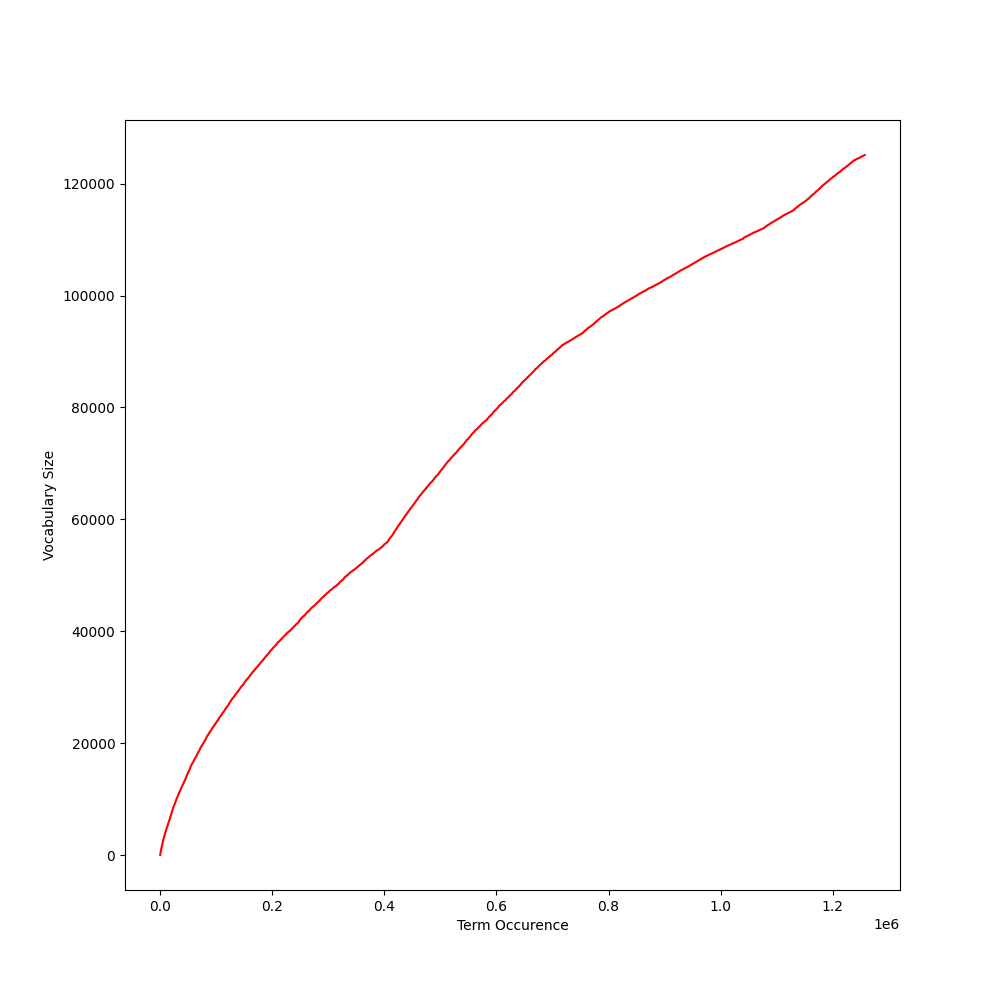
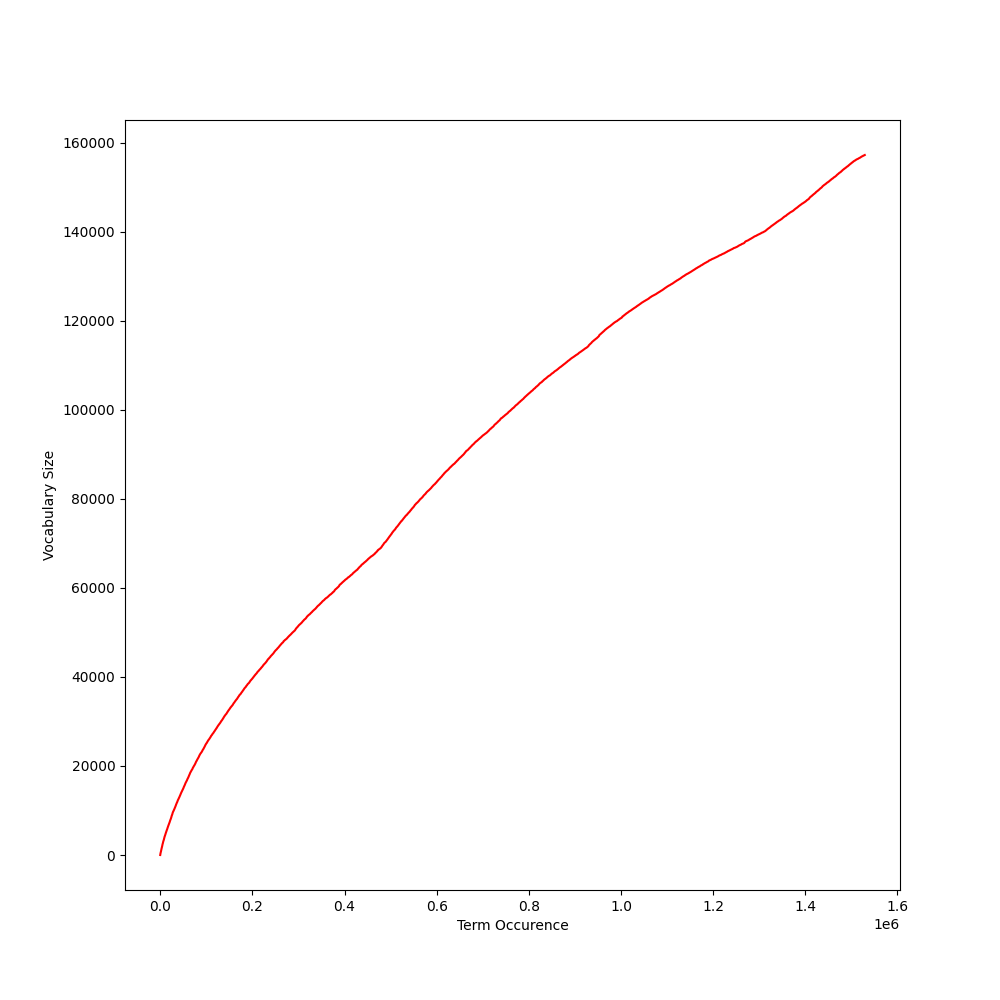
Faster Version for WC

diff --git a/project02.py b/project02.py
@@ -1,28 +1,34 @@
 import pickle
+import matplotlib.pyplot as plt
 import re
 
-import matplotlib.pyplot as plt
-from nltk import sent_tokenize, word_tokenize
-from nltk.util import ngrams, bigrams, everygrams
-from nltk.corpus import stopwords as stw
-from nltk.lm import MLE, KneserNeyInterpolated, Laplace
-from nltk.lm.preprocessing import padded_everygram_pipeline
-from nltk.tokenize.treebank import TreebankWordDetokenizer
 from sklearn.feature_extraction.text import CountVectorizer, TfidfVectorizer
 from wordcloud import WordCloud
+from timeit import default_timer as Timer
 
+# NLTK imports
+import nltk
+# nltk.download("stopwords")
+# nltk.download('punkt')
+from nltk.lm import MLE, KneserNeyInterpolated, Laplace
+from nltk.lm.preprocessing import padded_everygram_pipeline
+from nltk import word_tokenize, sent_tokenize
+from nltk.tokenize.treebank import TreebankWordDetokenizer
+from nltk.util import pad_sequence, bigrams, ngrams, everygrams
+from nltk.lm.preprocessing import pad_both_ends, flatten
+from nltk.corpus import stopwords as STOPWORDS
+
+def preprocess(docs):
+    result = []
+    for d in docs:
+        a = re.sub(r'[\'’][\w]+ ', " " ,d)
+        result.append(a)
+    return result
 
 def create_WordCloud(docs, dim_size, output_file_path, mode="TF", stopwords=True):
-    stopwordsList = set(stw.words('turkish'))
+    stopWords = set(STOPWORDS.words('turkish'))
+    processed_docs = preprocess(docs)
     if stopwords:
-        if mode == "TF":
-            vectorizer = CountVectorizer(stop_words=stopwordsList)
-        elif mode == "TFIDF":
-            vectorizer = TfidfVectorizer(stop_words=stopwordsList)
-        else:
-            print("Unknown mode.")
-            return
-    else:
         if mode == "TF":
             vectorizer = CountVectorizer(stop_words=None)
         elif mode == "TFIDF":
@@ -30,21 +36,25 @@ def create_WordCloud(docs, dim_size, output_file_path, mode="TF", stopwords=True
         else:
             print("Unknown mode.")
             return
-    
-    global tokenizer, preprocessor, vocabulary
+    else:
+        if mode == "TF":
+            vectorizer = CountVectorizer(stop_words=stopWords)
+        elif mode == "TFIDF":
+            vectorizer = TfidfVectorizer(stop_words=stopWords)
+        else:
+            print("Unknown mode.")
+            return
 
-    vectorizer.fit_transform(docs)
-    vocabulary = vectorizer.get_feature_names()
-    
-    preprocessor = vectorizer.build_preprocessor()
-    tokenizer = vectorizer.build_tokenizer()
-    
-    rawString = ""
-    for i in docs:
-        rawString += i
+    global frequency
+    frequency = {}
+    word_count = vectorizer.fit_transform(processed_docs)
+    word_dic = vectorizer.vocabulary_
 
-    # Türkiye'nin -> Türkiye
-    rawString = re.sub(r'\’[\w]+ ', " " ,rawString)
+    counts = word_count.sum(axis=0)
+
+    for word,index in word_dic.items():
+        frequency[word] = counts[0,index]
+
 
     if stopwords:
         wc = WordCloud(
@@ -52,42 +62,42 @@ def create_WordCloud(docs, dim_size, output_file_path, mode="TF", stopwords=True
             width = dim_size,
             height= dim_size,
             background_color="white",
-            stopwords=stopwordsList,
-            min_font_size=10,
-        ).generate(rawString)
+            # stopwords=stopWords,
+            min_font_size=10)
+        wc.generate_from_frequencies(frequency)
     else:
         wc = WordCloud(
             random_state=1,
             width = dim_size,
             height= dim_size,
             background_color="white",
-            # stopwords=stopwordsList,
-            min_font_size=10,
-        ).generate(rawString)
-    
+            stopwords=stopWords,
+            min_font_size=10)
+        wc.generate_from_frequencies(frequency)
+
     plt.figure(figsize=(10, 10))
     plt.imshow(wc)
     plt.axis("off")
-    # plt.show()
+    # plt.show()
     wc.to_file(output_file_path)
     plt.clf()
 
 def create_ZiphsPlot(docs, output_file_path):
-    rawString = ""
-    for i in range(len(docs)):
-        rawString += preprocessor(docs[i])
-        # rawString += docs[i]
-    
-    for i in range(len(docs)):
-        # rawString += preprocessor(docs[i])
-        rawString += docs[i]
-    frequency = {}
-    tokens = tokenizer(rawString)
-    for token in tokens:
-        if token in frequency.keys():
-            frequency[token] += 1
-        else:
-            frequency[token] = 1
+    global frequency
+
+    if not bool(frequency):
+        tokens = []
+        for d in docs:
+            tokenized_sentences = sent_tokenize(d, language="turkish")
+            for sent in tokenized_sentences:
+                tokens += word_tokenize(sent, language="turkish")
+        
+        frequency = {}
+        for token in tokens:
+            if token in frequency.keys():
+                frequency[token] += 1
+            else:
+                frequency[token] = 1
 
     sortedFrequencies = {k: v for k, v in reversed(sorted(frequency.items(), key=lambda item: item[1]))}
     
@@ -105,24 +115,19 @@ def create_ZiphsPlot(docs, output_file_path):
     plt.xlabel("Rank")
     plt.ylabel("Frequency")
     # plt.show()
-    plt.savefig("outputs/normalized_project2_zips.png")
+    # plt.savefig(output_file_path)
     plt.clf()
 
 def create_HeapsPlot(docs, output_file_path):
-    rawString = ""
-    for i in range(len(docs)):
-        rawString += preprocessor(docs[i])
-    
-    # Türkiye'nin -> Türkiye
-    rawString = re.sub(r'\’[\w]+ ', " " ,rawString)
-    # get rid of mi mı
-    rawString = re.sub(r' m[iı] ', " ", rawString)
-
-    tokens = tokenizer(rawString)
+    tokens = []
+    for d in docs:
+        tokenized_sentences = sent_tokenize(d, language="turkish")
+        for sent in tokenized_sentences:
+            tokens += word_tokenize(sent, language="turkish")
 
     corpus = set()
     length = []
-    index = range(1,len(tokens)+1)
+    index = list(range(1,len(tokens)+1))
     for token in tokens:
         corpus.add(token)
         length.append(len(corpus))
@@ -131,7 +136,7 @@ def create_HeapsPlot(docs, output_file_path):
     plt.xlabel("Term Occurence")
     plt.ylabel("Vocabulary Size")
     plt.savefig(output_file_path)
-    plt.plot(index, index, color="black")
+    # plt.plot(index, [i//8 for i in index], color="black")
     # plt.show()
     plt.clf()
 
@@ -141,10 +146,10 @@ def create_LanguageModel(docs, model_type="MLE", ngram=3):
     tokenized_text = []
     for d in docs:
         text = d
-        text = sent_tokenize(text)
+        text = sent_tokenize(text, language="turkish" )
         for sent in text:
             temp = []
-            for i in word_tokenize(sent):
+            for i in word_tokenize(sent, language="turkish"):
                 temp.append(i.lower())
             tokenized_text.append(temp)
 
@@ -182,12 +187,11 @@ def generate_sentence(model, text):
 
         perp_list.append(model.perplexity(ngrams(content,_ngram)))
         sentence_list.append(detokenize(content))
-        print("Done for ", i)
+        # print("Done for ", i)
 
-    for i,j in zip(sentence_list, perp_list):
-        print(i,j)
-
-    print("\n\n\n")
+    # for i,j in zip(sentence_list, perp_list):
+    #     print(i,j)
+    
     index = perp_list.index(min(perp_list))
     
     return (sentence_list[index], perp_list[index])
